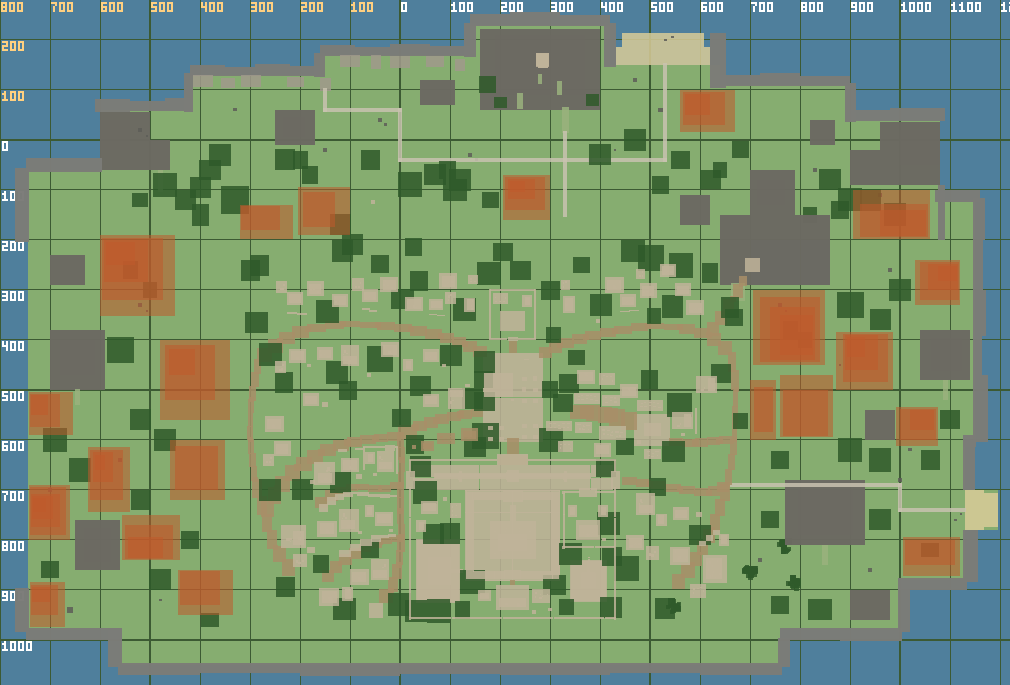
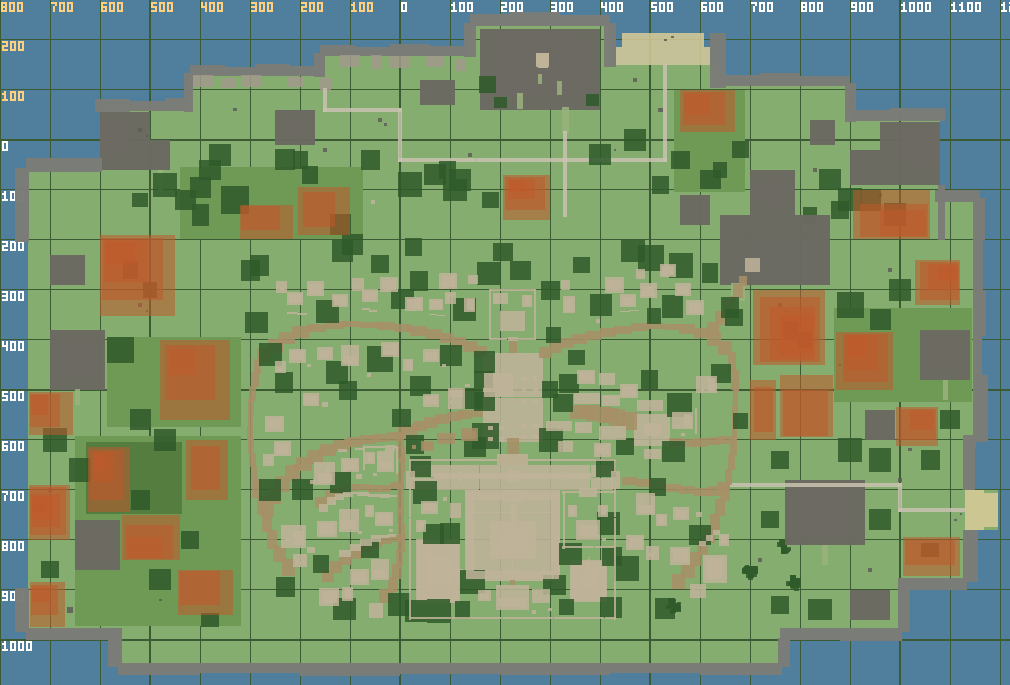
평원 땅 판 높낮이: 들판 단 6개(한 단 +3·두 단 +6) — 단 안 언덕·옛 덩어리·오르막·잔해·나무·바위를 함께 올림, 걸침 검사

diff --git a/tools/plains_fill_plan.py b/tools/plains_fill_plan.py
@@ -53,7 +53,7 @@ MASSES = [
     ("못재", -742, -660, 690, 800, 5), ("못재", -740, -668, 694, 790, 11), ("못재", -738, -680, 708, 775, 17), ("못재", -736, -695, 712, 758, 23), ("못재", -734, -708, 716, 745, 29),
     ("버들재", -556, -440, 750, 840, 4), ("버들재", -550, -455, 770, 838, 9), ("버들재", -545, -475, 795, 836, 14),
     # 도성 서순환 바로 바깥 낮은 둔덕(서촌에서 나서자마자 땅이 오르내리게)
-    ("서촌둔덕", -460, -350, 600, 720, 3), ("서촌둔덕", -450, -365, 612, 700, 6),
+    ("서촌둔덕", -428, -345, 600, 720, 3), ("서촌둔덕", -418, -360, 612, 700, 6),
     ("남서둔덕", -445, -335, 860, 950, 4), ("남서둔덕", -440, -360, 862, 930, 9),
     ("서남해", -740, -670, 885, 975, 4), ("서남해", -738, -685, 890, 950, 9), ("서남해", -736, -700, 895, 925, 14),
     # ── 북쪽 들 ──
@@ -72,6 +72,23 @@ MASSES = [
     ("동남해", 1005, 1120, 795, 872, 4), ("동남해", 1010, 1110, 800, 850, 9),
 ]
 RAMPS = []
+# 땅 판 높낮이(2026-10-04 사용자: "평원 전체에서, 큰 판도 높낮이를 줘서 입체감을 더 살릴 것").
+# 도성(서순환·궁) 바깥 들판에 넓은 단(바위 옆 + 풀 윗면)을 깔아 땅 자체가 층을 이루게 한다.
+#   { 이름, x0, x1, z0, z1, 높이(땅 위) } — 높이 3 = 한 단, 6 = 두 단(3 단 안쪽에만). 가장자리 3 은 뛰어 오른다.
+#   단 안의 옛 덩어리·오르막·잔해·나무·바위(평원 지형)는 단 높이만큼 함께 올린다. 언덕(MASSES)은 첫 켜가 든 단 위에 선다.
+#   도성 물건·돌길·사용자 물건은 단에 걸치면 안 된다(검사).
+PLATEAUS = [
+    # 서쪽: 서순환 바깥 남서 들 한 단 + 그 안쪽(버들마루·버들재) 두 단, 서들둔덕 쪽 한 단 — 사이(z 575~592)는 낮은 골
+    ("서들판", -650, -318, 592, 972, 3),
+    ("서들판위", -628, -436, 605, 748, 6),
+    ("서중판", -586, -318, 395, 575, 3),
+    # 북쪽: 북촌 바깥 들 한 단
+    ("북들판", -440, -75, 55, 198, 3),
+    # 북동: 바닷길 동쪽 한 단(동북들 언덕이 올라앉음)
+    ("동북판", 548, 690, -100, 104, 3),
+    # 동쪽: 갯둔덕·동언덕 들 한 단
+    ("동판", 868, 1144, 336, 524, 3),
+]
 KITS = []
 TREES = []
 ROCKS = []
@@ -175,8 +192,60 @@ def is_tree(tag, name):
     return "Trees" in tag or "Flora" in tag or "나무" in tag
 
 
-def check(occ, land):
+def plateau_at(x0, z0, x1, z1):
+    """네모 전체가 든 단 중 가장 높은 것의 높이(없으면 0)"""
+    h = 0
+    for _, a0, a1, b0, b1, ph in PLATEAUS:
+        if a0 <= x0 and x1 <= a1 and b0 <= z0 and z1 <= b1:
+            h = max(h, ph)
+    return h
+
+
+def check_plateaus(occ, land):
     probs = []
+    for pl in PLATEAUS:
+        name, x0, x1, z0, z1, h = pl
+        r = (x0, z0, x1, z1)
+        if not inside_land(r, land):
+            probs.append("단이 땅 밖: %s" % name)
+        if h > 3 and plateau_at(*r) < h and not any(
+            o is not pl and o[1] <= x0 and x1 <= o[2] and o[3] <= z0 and z1 <= o[4] and o[5] == h - 3 for o in PLATEAUS
+        ):
+            probs.append("두 단(%d)은 한 단 안쪽에: %s" % (h, name))
+        for tag, oname, orect, _ in occ:
+            if "/Sand" in tag:
+                continue
+            inside = r[0] <= orect[0] and orect[2] <= r[2] and r[1] <= orect[1] and orect[3] <= r[3]
+            lift = tag.startswith("R_평원") and any(tag.endswith(k) for k in ("/Trees", "/Rocks", "/Masses", "/Ramps", "/Ruins"))
+            if lift:
+                if is_tree(tag, oname):
+                    # 나무는 밑동(4)만 본다: 단 안쪽 5 이상 또는 바깥 4 넘게
+                    cx, cz = (orect[0] + orect[2]) / 2, (orect[1] + orect[3]) / 2
+                    inner = r[0] + 5 <= cx <= r[2] - 5 and r[1] + 5 <= cz <= r[3] - 5
+                    if not (inner or not overlap((cx, cz, cx, cz), r, 4)):
+                        probs.append("나무가 단 가장자리에: %s ↔ %s/%s" % (name, tag, oname))
+                elif not inside and overlap(r, orect, 2):
+                    probs.append("단에 걸침: %s ↔ %s/%s" % (name, tag, oname))
+                continue
+            pad = 0 if "/Cliffs" in tag else 3
+            if is_tree(tag, oname):
+                cx, cz = (orect[0] + orect[2]) / 2, (orect[1] + orect[3]) / 2
+                orect = (cx - 4, cz - 4, cx + 4, cz + 4)
+            if overlap(r, orect, pad):
+                probs.append("단이 덮음(못 올림): %s ↔ %s/%s" % (name, tag, oname))
+        # 언덕 첫 켜는 단 안이거나 2 넘게 떨어져야
+        firsts = {}
+        for m in MASSES:
+            firsts.setdefault(m[0], (m[1], m[3], m[2], m[4]))
+        for hn, hr in firsts.items():
+            inside = r[0] <= hr[0] and hr[2] <= r[2] and r[1] <= hr[1] and hr[3] <= r[3]
+            if not inside and overlap(r, hr, 2):
+                probs.append("언덕이 단에 걸침: %s ↔ %s" % (name, hn))
+    return probs
+
+
+def check(occ, land):
+    probs = check_plateaus(occ, land)
     items = new_items()
     # 덩어리·오르막 위에 얹는 것은 같은 덩어리 이름이면 괜찮다(정자를 언덕 위에) — 덩어리와 물건 겹침은 덩어리가 받침이면 허용
     mass_rects = [it[2] for it in items if it[0] == "mass"]
@@ -276,6 +345,8 @@ def render(path, occ, land, region=(-800, -280, 1220, 1090), sc=0.5):
     colors = [("/Cliffs", "#7c7c78"), ("/Masses", "#6c6a62"), ("/Ramps", "#9ab27e"), ("/Sand", "#d9cc98"),
               ("/Trees", "#2f5a2a"), ("Flora", "#2f5a2a"), ("나무", "#2f5a2a"), ("/Rocks", "#5d5d58"), ("/Paths", "#c9c3b0"),
               ("/Ruins", "#a09a8c"), ("길", "#a88f68")]
+    for _, x0, x1, z0, z1, h in sorted(PLATEAUS, key=lambda q: q[5]):
+        C.rect(x0, z0, x1, z1, "#6f9a55" if h <= 3 else "#557d40")
     for tag, name, r, top in occ:
         col = "#c0b49a"
         for key, c in colors:
@@ -308,7 +379,7 @@ def lua(v):
 def emit(path):
     kits = [(k, x, z, yaw, rest[0] if rest else 1, KIT_SRC.get(k, "JeolhwaKit")) for k, x, z, yaw, *rest in KITS]
     out = ["-- plains_fill_plan.py 가 만든 데이터(손으로 고치지 말고 표를 고칠 것)"]
-    for name, rows in (("MASSES", MASSES), ("RAMPS", RAMPS), ("KITS", kits), ("TREES", TREES), ("ROCKS", ROCKS),
+    for name, rows in (("PLATEAUS", PLATEAUS), ("MASSES", MASSES), ("RAMPS", RAMPS), ("KITS", kits), ("TREES", TREES), ("ROCKS", ROCKS),
                        ("PONDS", PONDS), ("GARDENS", GARDENS), ("MARKS", MARKS)):
         out.append("local %s = {" % name)
         out += ["\t%s," % lua(r) for r in rows]
